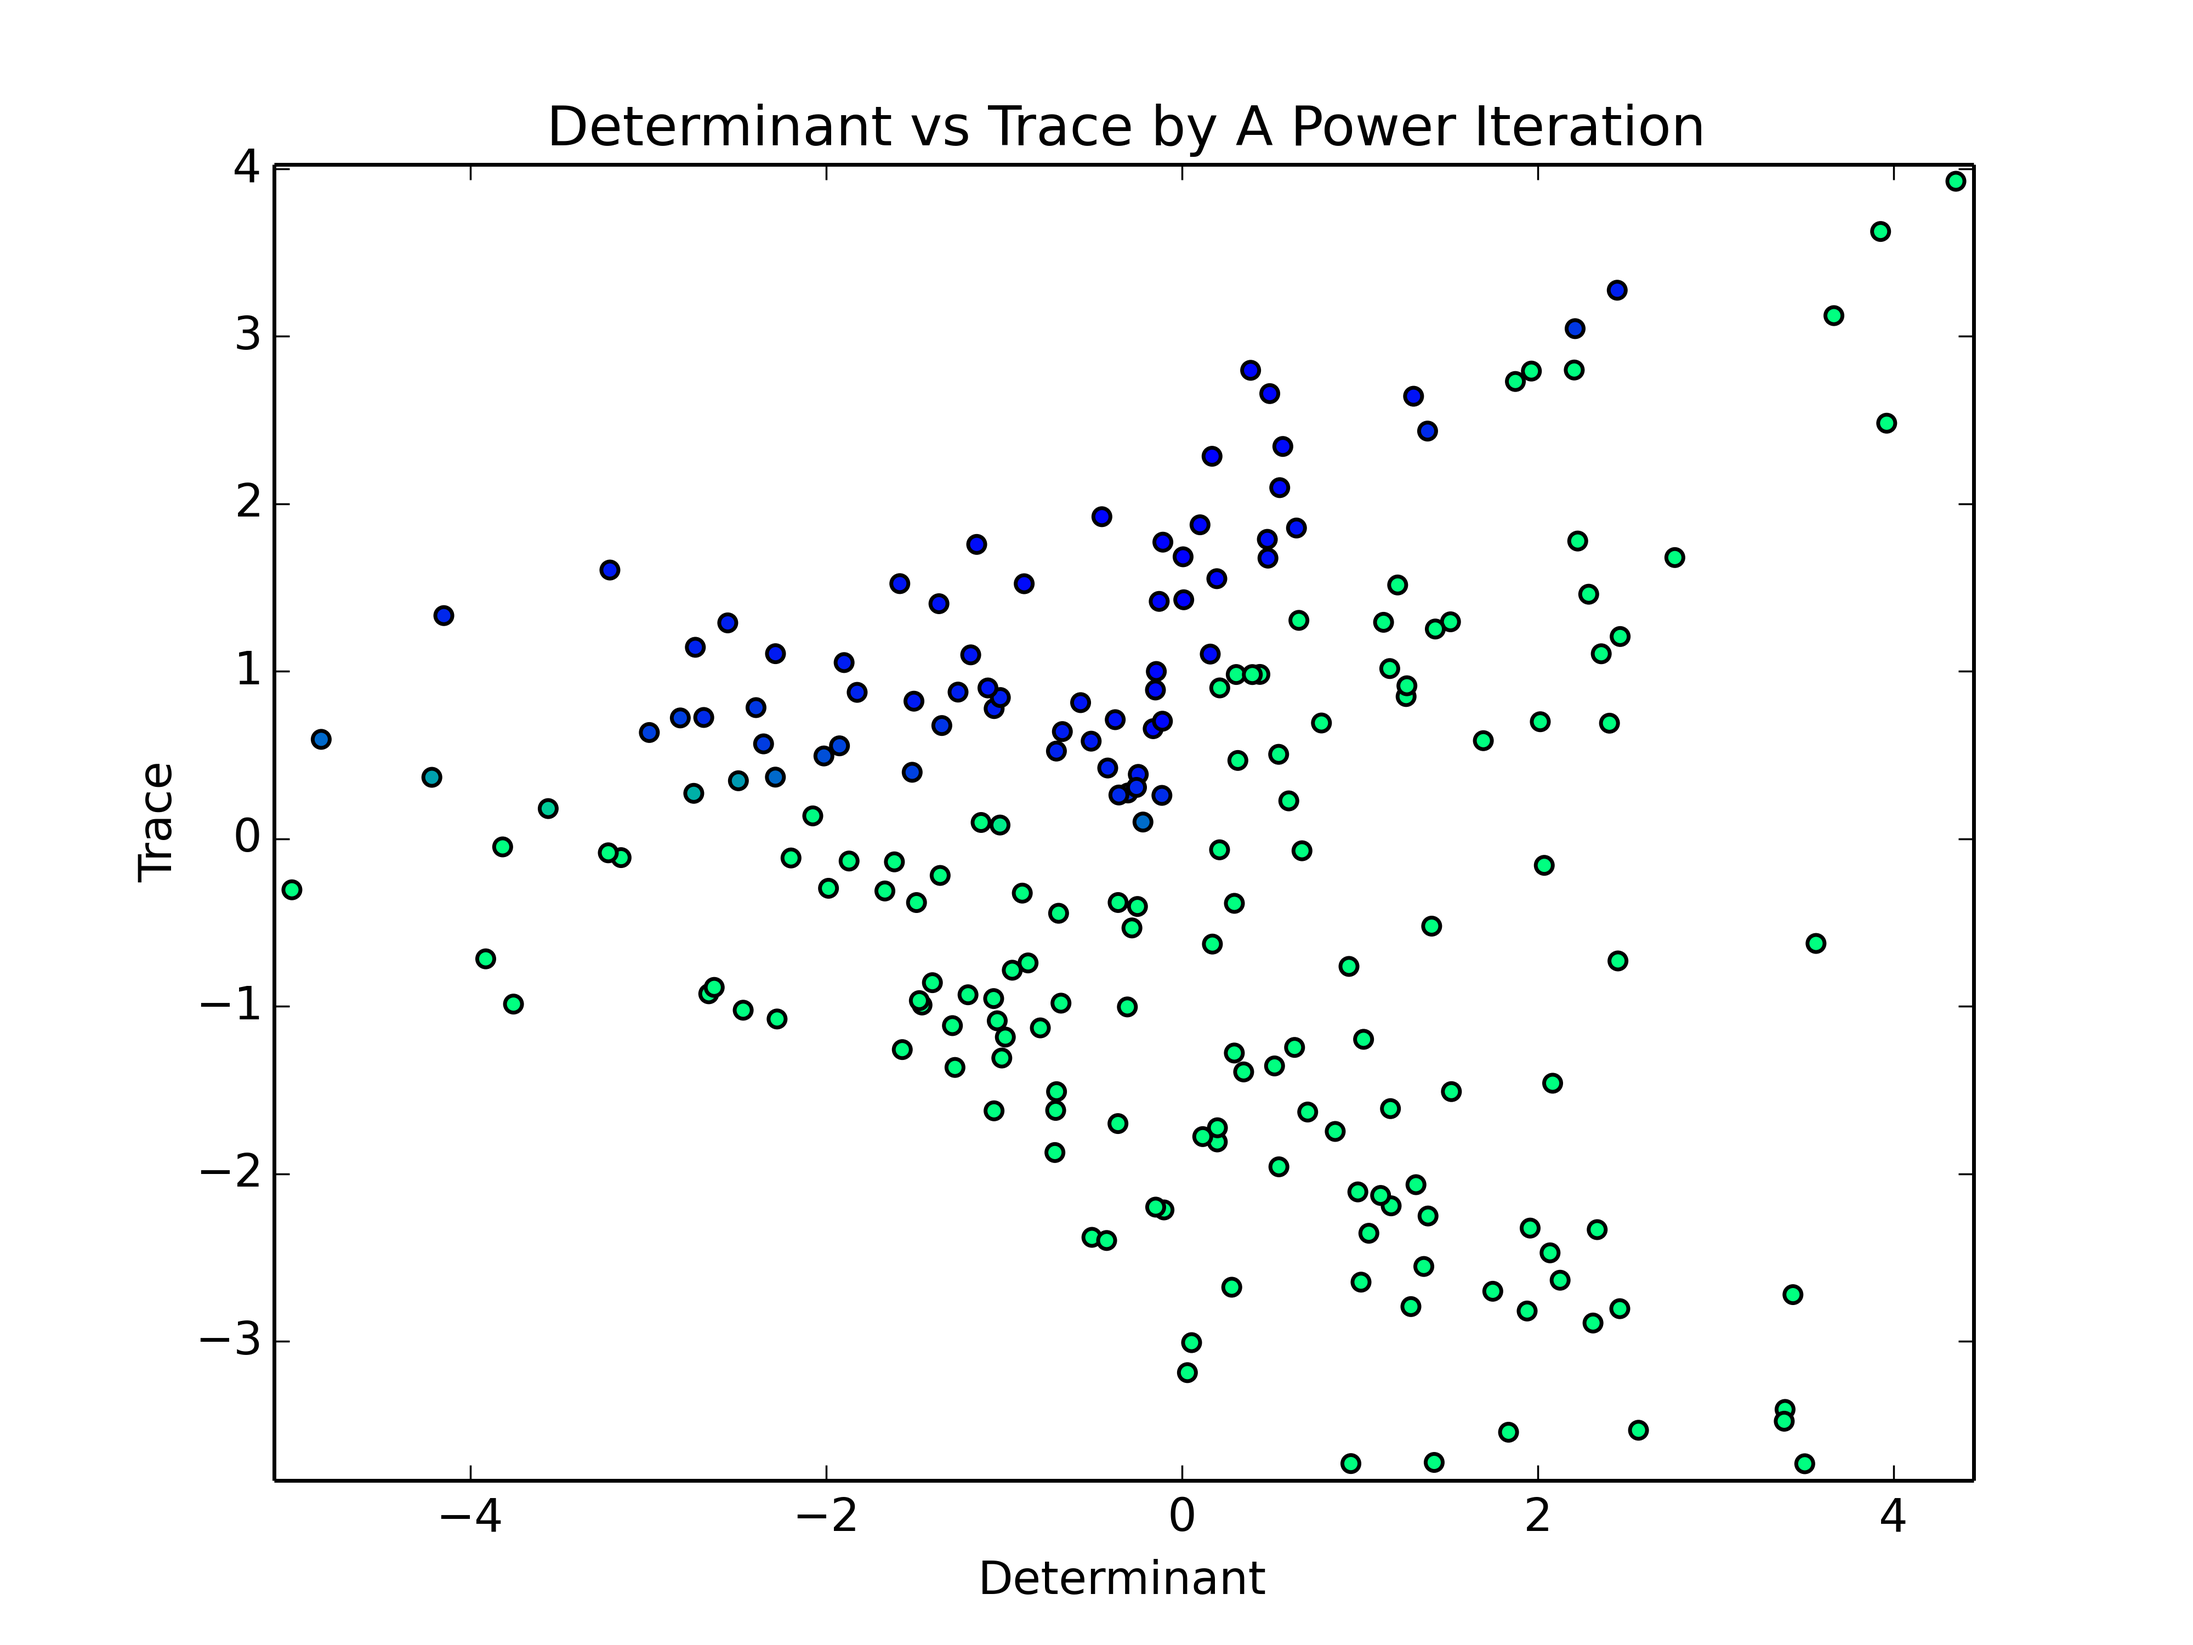
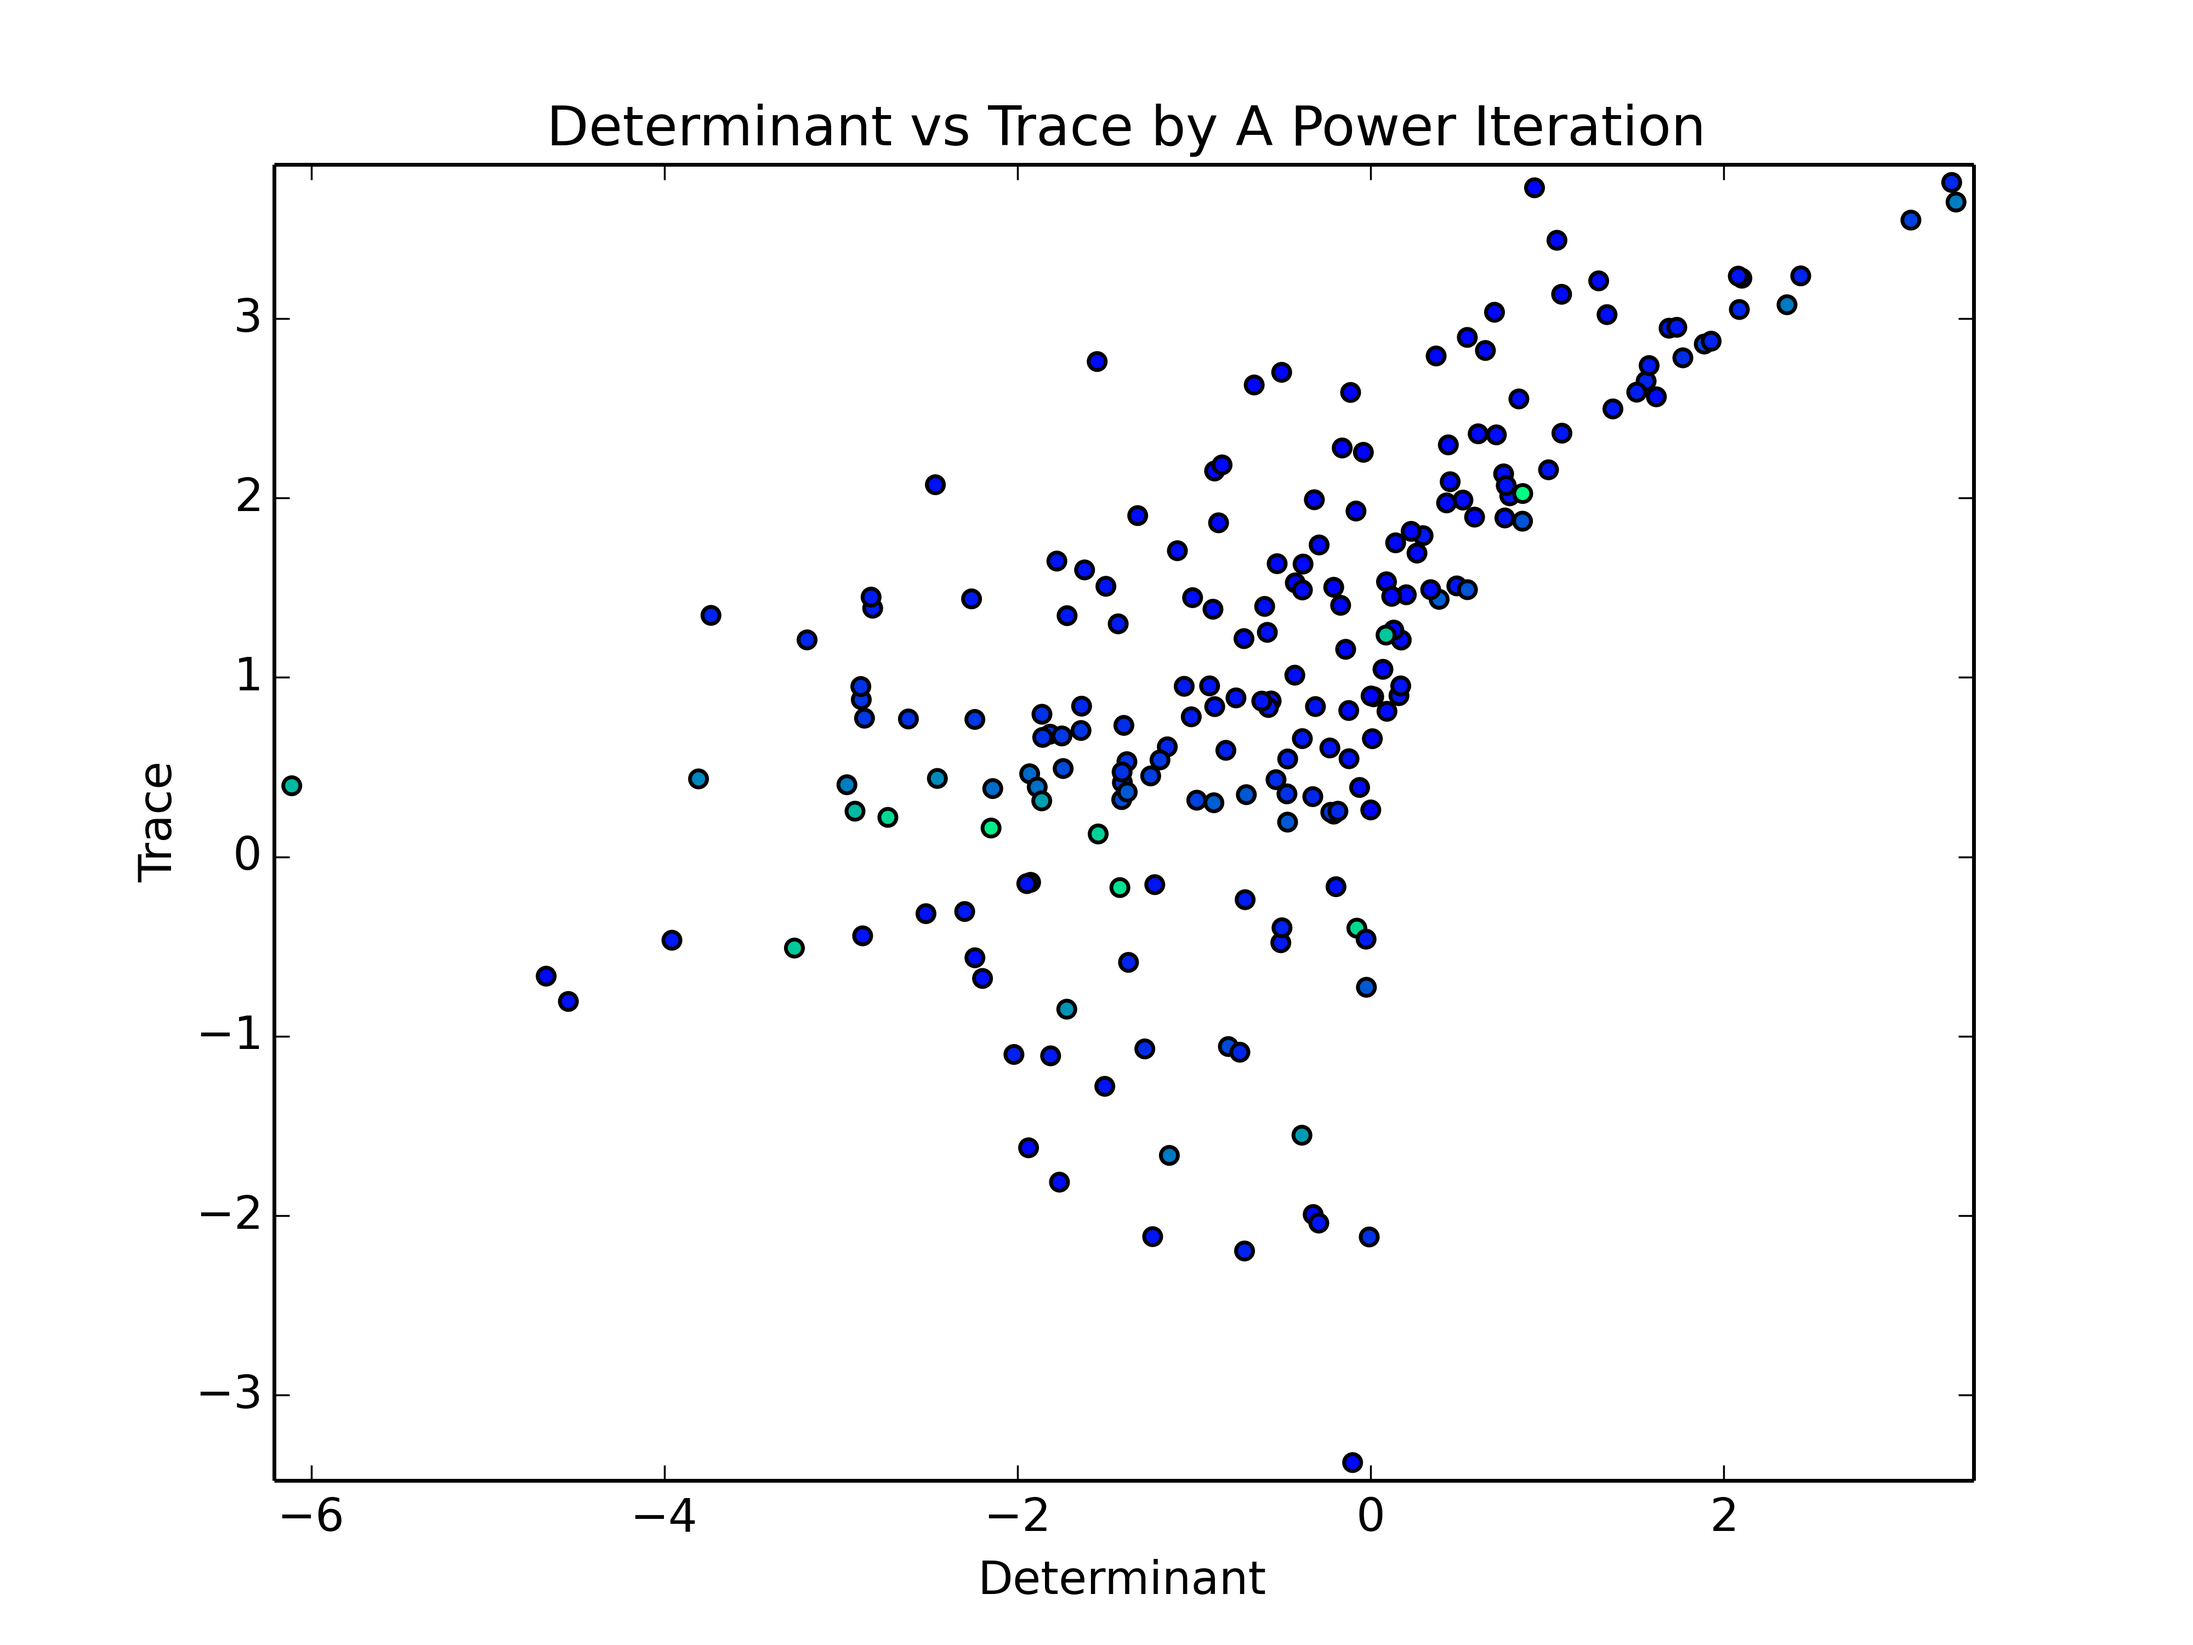
Fix part 3i

diff --git a/writing_3_part_i.py b/writing_3_part_i.py
@@ -7,62 +7,66 @@ import util
 
 VECTORS = [(1., 0.), (0., 1.), (1., 1.)]
 for i in range(len(VECTORS)):
-	tup = VECTORS[i]
-	VECTORS[i] = np.reshape(tup, (len(tup), 1))
+    tup = VECTORS[i]
+    VECTORS[i] = np.reshape(tup, (len(tup), 1))
 
 
-def main():	
-	iterations = []
-	inv_iterations = []
-	dets = []
-	traces = []
+def main(): 
+    iterations = []
+    inv_iterations = []
+    dets = []
+    traces = []
 
-	for _ in range(200):
-		i = 0
-		vec = None
-		a, a_inv = get_matrix()
-		while vec is None and i < len(VECTORS):
-			val, vec, n_iter = power(a, VECTORS[i], VECTORS[i], 0.00005, 100)
-			inv_val, inv_vec, inv_n_iter = power(a, VECTORS[i], VECTORS[i], 0.00005, 100)
-			i += 1
-		iterations.append(n_iter)
-		inv_iterations.append(inv_n_iter)
-		traces.append(trace(a))
-		dets.append(determinant_2_2(a))
-	
-	util.plot([min(dets)-.1, max(dets)+.1, min(traces)-.1, max(traces)+.1],
-	 		dets, 
-	 		traces, 
-	 		iterations, 
-	 		"Determinant", 
-	 		"Trace", 
-	 		"Determinant vs Trace by A Power Iteration", 
-	 		"writing/3/writing_3_a")
-	util.plot([min(dets)-.1, max(dets)+.1, min(traces)-.1, max(traces)+.1],
-	 		dets, 
-	 		traces, 
-	 		inv_iterations, 
-	 		"Determinant", 
-	 		"Trace", 
-	 		"Determinant vs Trace by A Inverse Power Iteration",
-	 		"writing/3/writing_3_a_inv")
+    for _ in range(200):
+        i = 0
+        vec = None
+        inv_vec = None
+        while vec is None or inv_vec is None:
+            a, a_inv = get_matrix()
+            while vec is None and i < len(VECTORS):
+                val, vec, n_iter = power(a, VECTORS[i], VECTORS[i], 0.00005, 100)
+                i += 1
+            i = 0
+            while inv_vec is None and i < len(VECTORS):
+                inv_val, inv_vec, inv_n_iter = power(a_inv, VECTORS[i], VECTORS[i], 0.00005, 100)
+                i += 1
+        iterations.append(n_iter / 100.)
+        inv_iterations.append(inv_n_iter / 100.)
+        traces.append(trace(a))
+        dets.append(determinant_2_2(a))
+    util.plot([min(dets)-.1, max(dets)+.1, min(traces)-.1, max(traces)+.1],
+          dets, 
+          traces, 
+          iterations, 
+          "Determinant", 
+          "Trace", 
+          "Determinant vs Trace by A Power Iteration", 
+          "writing/3/writing_3_a")
+    util.plot([min(dets)-.1, max(dets)+.1, min(traces)-.1, max(traces)+.1],
+          dets, 
+          traces, 
+          inv_iterations, 
+          "Determinant", 
+          "Trace", 
+          "Determinant vs Trace by A Inverse Power Iteration",
+          "writing/3/writing_3_a_inv")
 
 
 
 def trace(a):
-	"""Returns the trace of a 2x2 matrix"""
-	return a[0][0] + a[1][1]
+    """Returns the trace of a 2x2 matrix"""
+    return a[0][0] + a[1][1]
 
 def get_matrix():
-	"""Returns tuple a 2x2 matrix and its inverse""" 
-	a = np.random.uniform(-2, 2, (2, 2))
-	while not (determinant_2_2(a)):
-		a = np.random.uniform(-2, 2, (2, 2))
-	return a, np.linalg.inv(a)
+    """Returns tuple a 2x2 matrix and its inverse"""
+    a = np.random.uniform(-2, 2, (2, 2))
+    while not (determinant_2_2(a)):
+        a = np.random.uniform(-2, 2, (2, 2))
+    return a, np.linalg.inv(a)
 
 def determinant_2_2(a):
-	"""Returns the determinant of a 2x2 matrix"""
-	return a[0][0] * a[1][1] - a[0][1] * a[1][0]
+    """Returns the determinant of a 2x2 matrix"""
+    return a[0][0] * a[1][1] - a[0][1] * a[1][0]
 
 if __name__ == "__main__":
-	main()
+    main()

diff --git a/lu_fact_driver.py b/lu_fact_driver.py
@@ -3,37 +3,37 @@ from sys import argv
 import util
 
 def lu_fact(a):
-	"""Computes LU decomposition  for n*n matrix A
+    """Computes LU decomposition  for n*n matrix A
 
-	:param a: n*n linearly independent matrix A
-	:returns: matrices L, U, and the error ||LU - A||\inf
-	"""
-	n = a.shape[0]
-	u = np.copy(a).astype(float)
-	transformations = []
-	for i in range(n - 1):
-		t = util.identity(n)
-		pivot = u[i][i]
-		if pivot == 0:
-			for x in range(i + 1, n):
-				if u[x][i] is not 0:
-					t[i] += t[x]
-					u[i] += u[x]
-					pivot = u[i][i]
-					break
-		for j in range(i + 1, n):
-			if u[j][i] is not 0:
-				factor = - u[j][i] / pivot
-				u[j] += factor * u[i]
-				t[j] += factor * t[i]
-		transformations.insert(0, t)
-	if len(transformations) > 1:
-		l_inv = reduce(np.dot, transformations)
-	else:
-		l_inv = transformations[0]
-	l = np.linalg.inv(l_inv)
-	dist = np.dot(l, u) - a
-	return l, u, util.norm_inf(dist)
+    :param a: n*n linearly independent matrix A
+    :returns: matrices L, U, and the error ||LU - A||\inf
+    """
+    n = a.shape[0]
+    u = np.copy(a).astype(float)
+    transformations = []
+    for i in range(n - 1):
+        t = util.identity(n)
+        pivot = u[i][i]
+        if pivot == 0:
+            for x in range(i + 1, n):
+                if u[x][i] is not 0:
+                    t[i] += t[x]
+                    u[i] += u[x]
+                    pivot = u[i][i]
+                    break
+        for j in range(i + 1, n):
+            if u[j][i] is not 0:
+                factor = - u[j][i] / pivot
+                u[j] += factor * u[i]
+                t[j] += factor * t[i]
+        transformations.insert(0, t)
+    if len(transformations) > 1:
+        l_inv = reduce(np.dot, transformations)
+    else:
+        l_inv = transformations[0]
+    l = np.linalg.inv(l_inv)
+    dist = np.dot(l, u) - a
+    return l, u, util.norm_inf(dist)
 
 
 def print_usage():
@@ -43,14 +43,14 @@ def print_usage():
 
 
 def main():
-	if len(argv) != 2:
-		print_usage()
-		return
-	a = np.loadtxt(argv[1])
-	l, u, err = lu_fact(a)
-	print "L:", l
-	print "U:", u
-	print "Error:", err
+    if len(argv) != 2:
+        print_usage()
+        return
+    a = np.loadtxt(argv[1])
+    l, u, err = lu_fact(a)
+    print "L:", l
+    print "U:", u
+    print "Error:", err
 
 if __name__ == "__main__":
-	main()
+    main()

diff --git a/iterative_methods.py b/iterative_methods.py
@@ -55,11 +55,10 @@ def power(a, u_0, w, e, m):
         tolerance = util.norm_inf(u_next - u_n)
         if tolerance <= e:
             w_dot_u = np.transpose(w).dot(u_n)
-            if w_dot_u == 0:
-                return None, None, i
+            # if w_dot_u == 0:
+            #     return None, None, i
             eigenvalue = np.transpose(w).dot(u_next) / w_dot_u
             eigenvector = u_next
             return eigenvalue, eigenvector, i
-        else:
-            u_n = u_next
+        u_n = u_next
     return None, None, m
